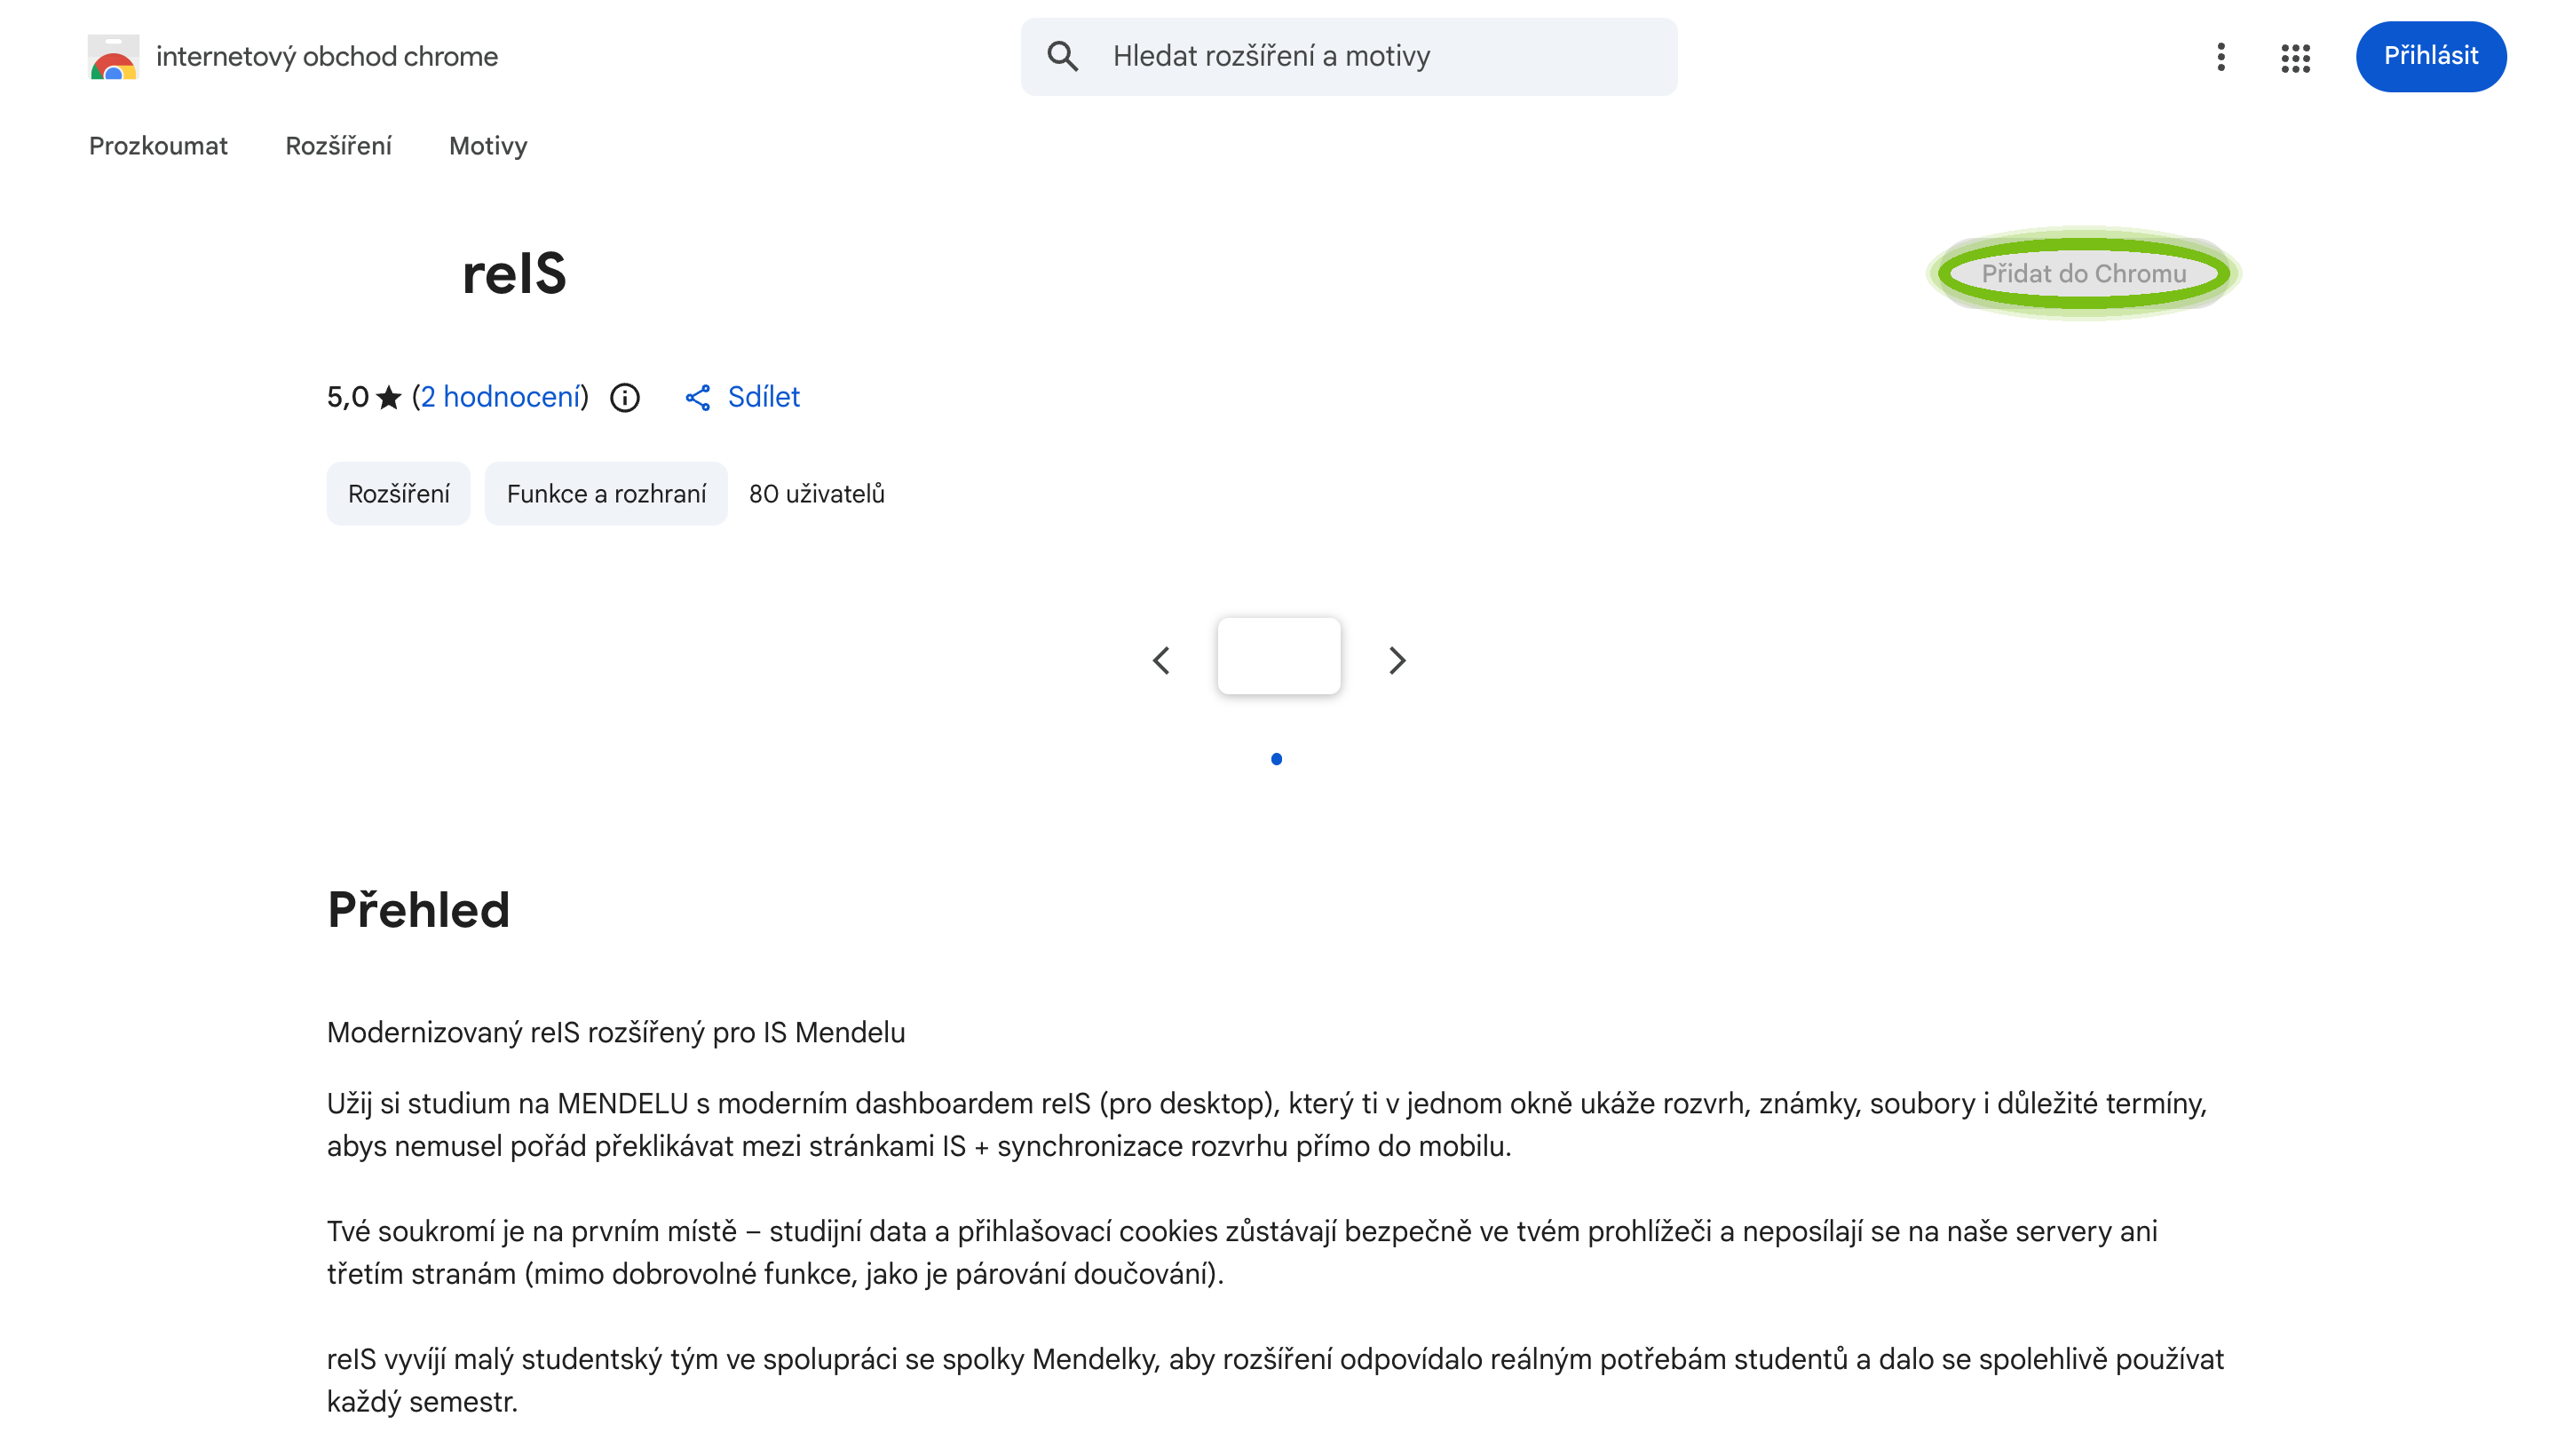
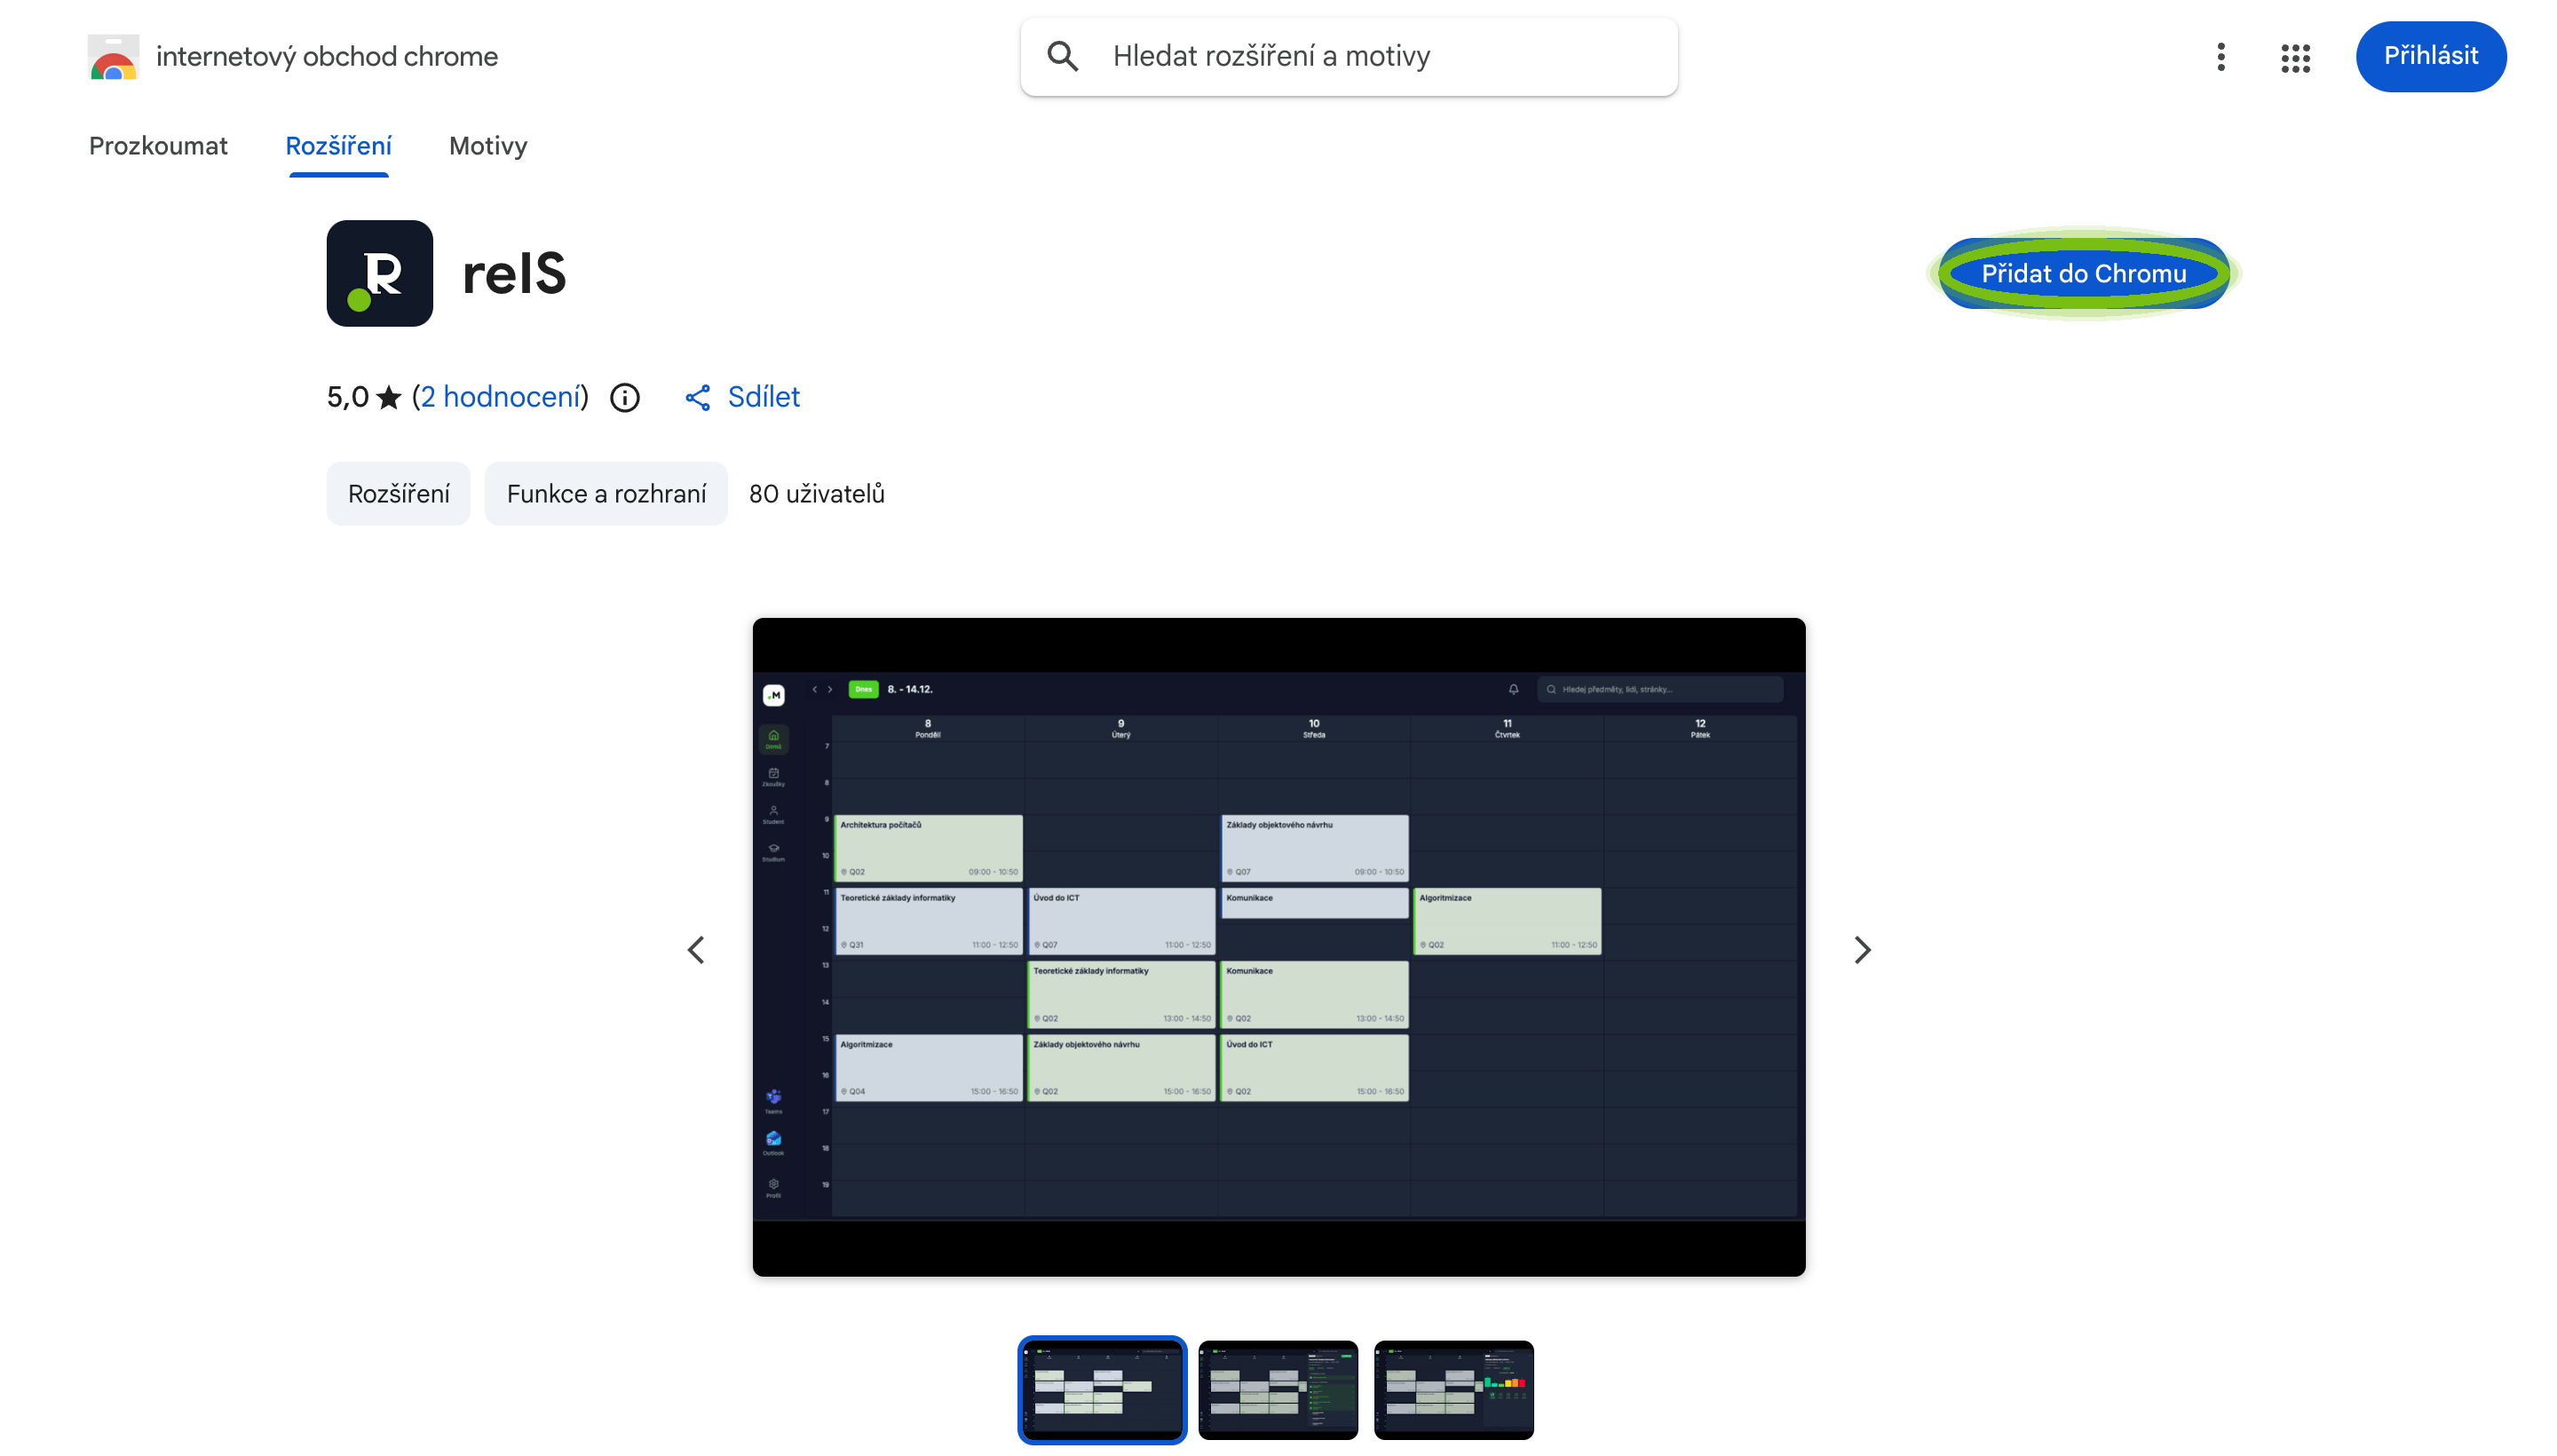
Fix screenshot display, Chrome store screenshot, and footer text
- Screenshots now display at full natural height (no 16/9 crop)
- Placeholder container only shown when no screenshot exists
- Chrome Web Store screenshot re-captured with logo visible
- Removed 'reIS · studentská iniciativa PEF MENDELU' footer subtitle

diff --git a/index.html b/index.html
@@ -192,12 +192,12 @@
             </div>
             <div style="flex:1;padding-bottom:4px">
               <div style="font-family:var(--font-ui);font-size:15px;line-height:1.5;color:var(--content-primary);margin-bottom:10px;text-wrap:pretty">{{ step.text }}</div>
-              <div style="position:relative;width:100%;aspect-ratio:16/9;border-radius:12px;border:1px dashed rgba(255,255,255,.16);background:var(--surface-tertiary);display:flex;align-items:center;justify-content:center;overflow:hidden">
-                <div style="display:flex;flex-direction:column;align-items:center;gap:6px;color:var(--content-muted)">
+              <div style="{{ step.containerStyle }}">
+                <div style="{{ step.placeholderStyle }}">
                   <svg width="22" height="22" viewBox="0 0 24 24" fill="none" stroke="currentColor" stroke-width="1.6" stroke-linecap="round" stroke-linejoin="round"><rect width="18" height="18" x="3" y="3" rx="2"></rect><circle cx="9" cy="9" r="2"></circle><path d="m21 15-3.086-3.086a2 2 0 0 0-2.828 0L6 21"></path></svg>
                   <span style="font-family:var(--font-ui);font-size:12px;font-weight:500">{{ shotLabel }}</span>
                 </div>
-                <div style="position:absolute;top:10px;right:10px;width:30px;height:30px;border-radius:9999px;border:2px solid var(--color-primary);opacity:.55"></div>
+                <div style="{{ step.dotStyle }}"></div>
                 <img src="{{ step.img }}" style="{{ step.imgStyle }}" alt="" loading="lazy">
               </div>
             </div>
@@ -221,7 +221,6 @@
     <!-- FOOTER -->
     <div style="margin-top:48px;padding-top:24px;border-top:1px solid rgba(255,255,255,.07);text-align:center">
       <div style="font-family:var(--font-ui);font-weight:600;font-size:13px;color:var(--content-secondary)">{{ t.footer }}</div>
-      <div style="font-family:var(--font-ui);font-size:12px;color:var(--content-muted);margin-top:5px">{{ t.footerSub }}</div>
     </div>
 
   </div>
@@ -267,8 +266,7 @@ class Component extends DCLogic {
       hint_phone: 'Android · iPhone',
       done: 'A je to! Otevři is.mendelu.cz a reIS naskočí sám.',
       restart: 'Začít znovu',
-      footer: 'Vytvořeno studenty pro studenty',
-      footerSub: 'reIS · studentská iniciativa PEF MENDELU'
+      footer: 'Vytvořeno studenty pro studenty'
     },
     en: {
       eyebrow: 'reIS · MENDELU',
@@ -283,8 +281,7 @@ class Component extends DCLogic {
       hint_phone: 'Android · iPhone',
       done: 'That\u2019s it! Open is.mendelu.cz and reIS loads automatically.',
       restart: 'Start over',
-      footer: 'Built by students, for students',
-      footerSub: 'reIS · a student initiative at PEF MENDELU'
+      footer: 'Built by students, for students'
     }
   };
 
@@ -486,8 +483,13 @@ class Component extends DCLogic {
       tutSteps: tut.steps.map((s, i) => {
         const path = browser ? `screenshots/${browser}-${i + 1}.png` : '';
         const has = !!(path && this.state.shots[path]);
-        const imgStyle = has ? 'position:absolute;inset:0;width:100%;height:100%;object-fit:cover;border-radius:12px' : 'display:none';
-        return { n: String(i + 1), text: s, img: has ? path : '', imgStyle };
+        const imgStyle = has ? 'width:100%;height:auto;display:block;border-radius:12px' : 'display:none';
+        const containerStyle = has
+          ? 'width:100%;border-radius:12px;overflow:hidden'
+          : 'position:relative;width:100%;aspect-ratio:16/9;border-radius:12px;border:1px dashed rgba(255,255,255,.16);background:var(--surface-tertiary);display:flex;align-items:center;justify-content:center;overflow:hidden';
+        const placeholderStyle = has ? 'display:none' : 'display:flex;flex-direction:column;align-items:center;gap:6px;color:var(--content-muted)';
+        const dotStyle = has ? 'display:none' : 'position:absolute;top:10px;right:10px;width:30px;height:30px;border-radius:9999px;border:2px solid var(--color-primary);opacity:.55';
+        return { n: String(i + 1), text: s, img: has ? path : '', imgStyle, containerStyle, placeholderStyle, dotStyle };
       }),
       shotLabel: lang === 'cs' ? 'Snímek brzy doplníme' : 'Screenshot coming soon',
       hasStore, noStore: !hasStore,